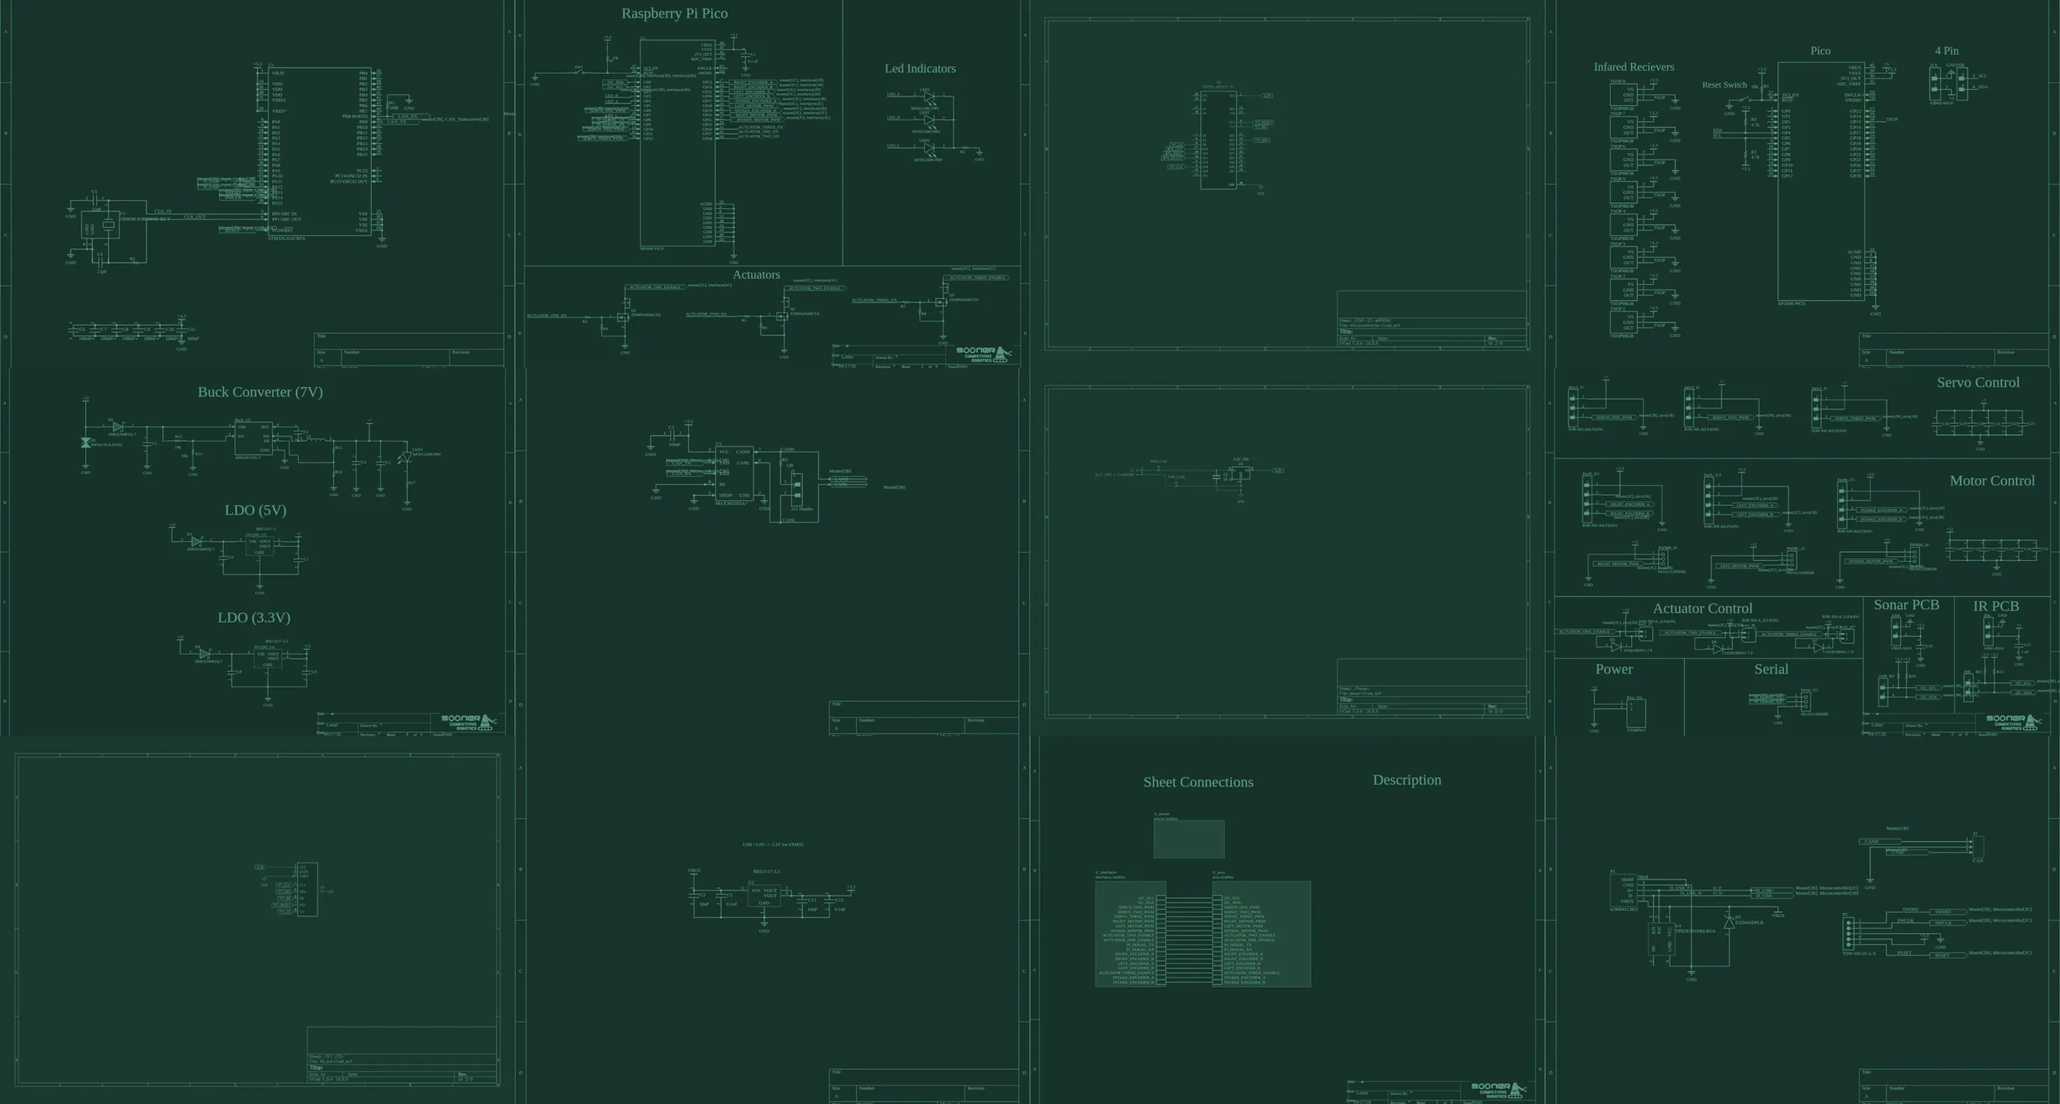
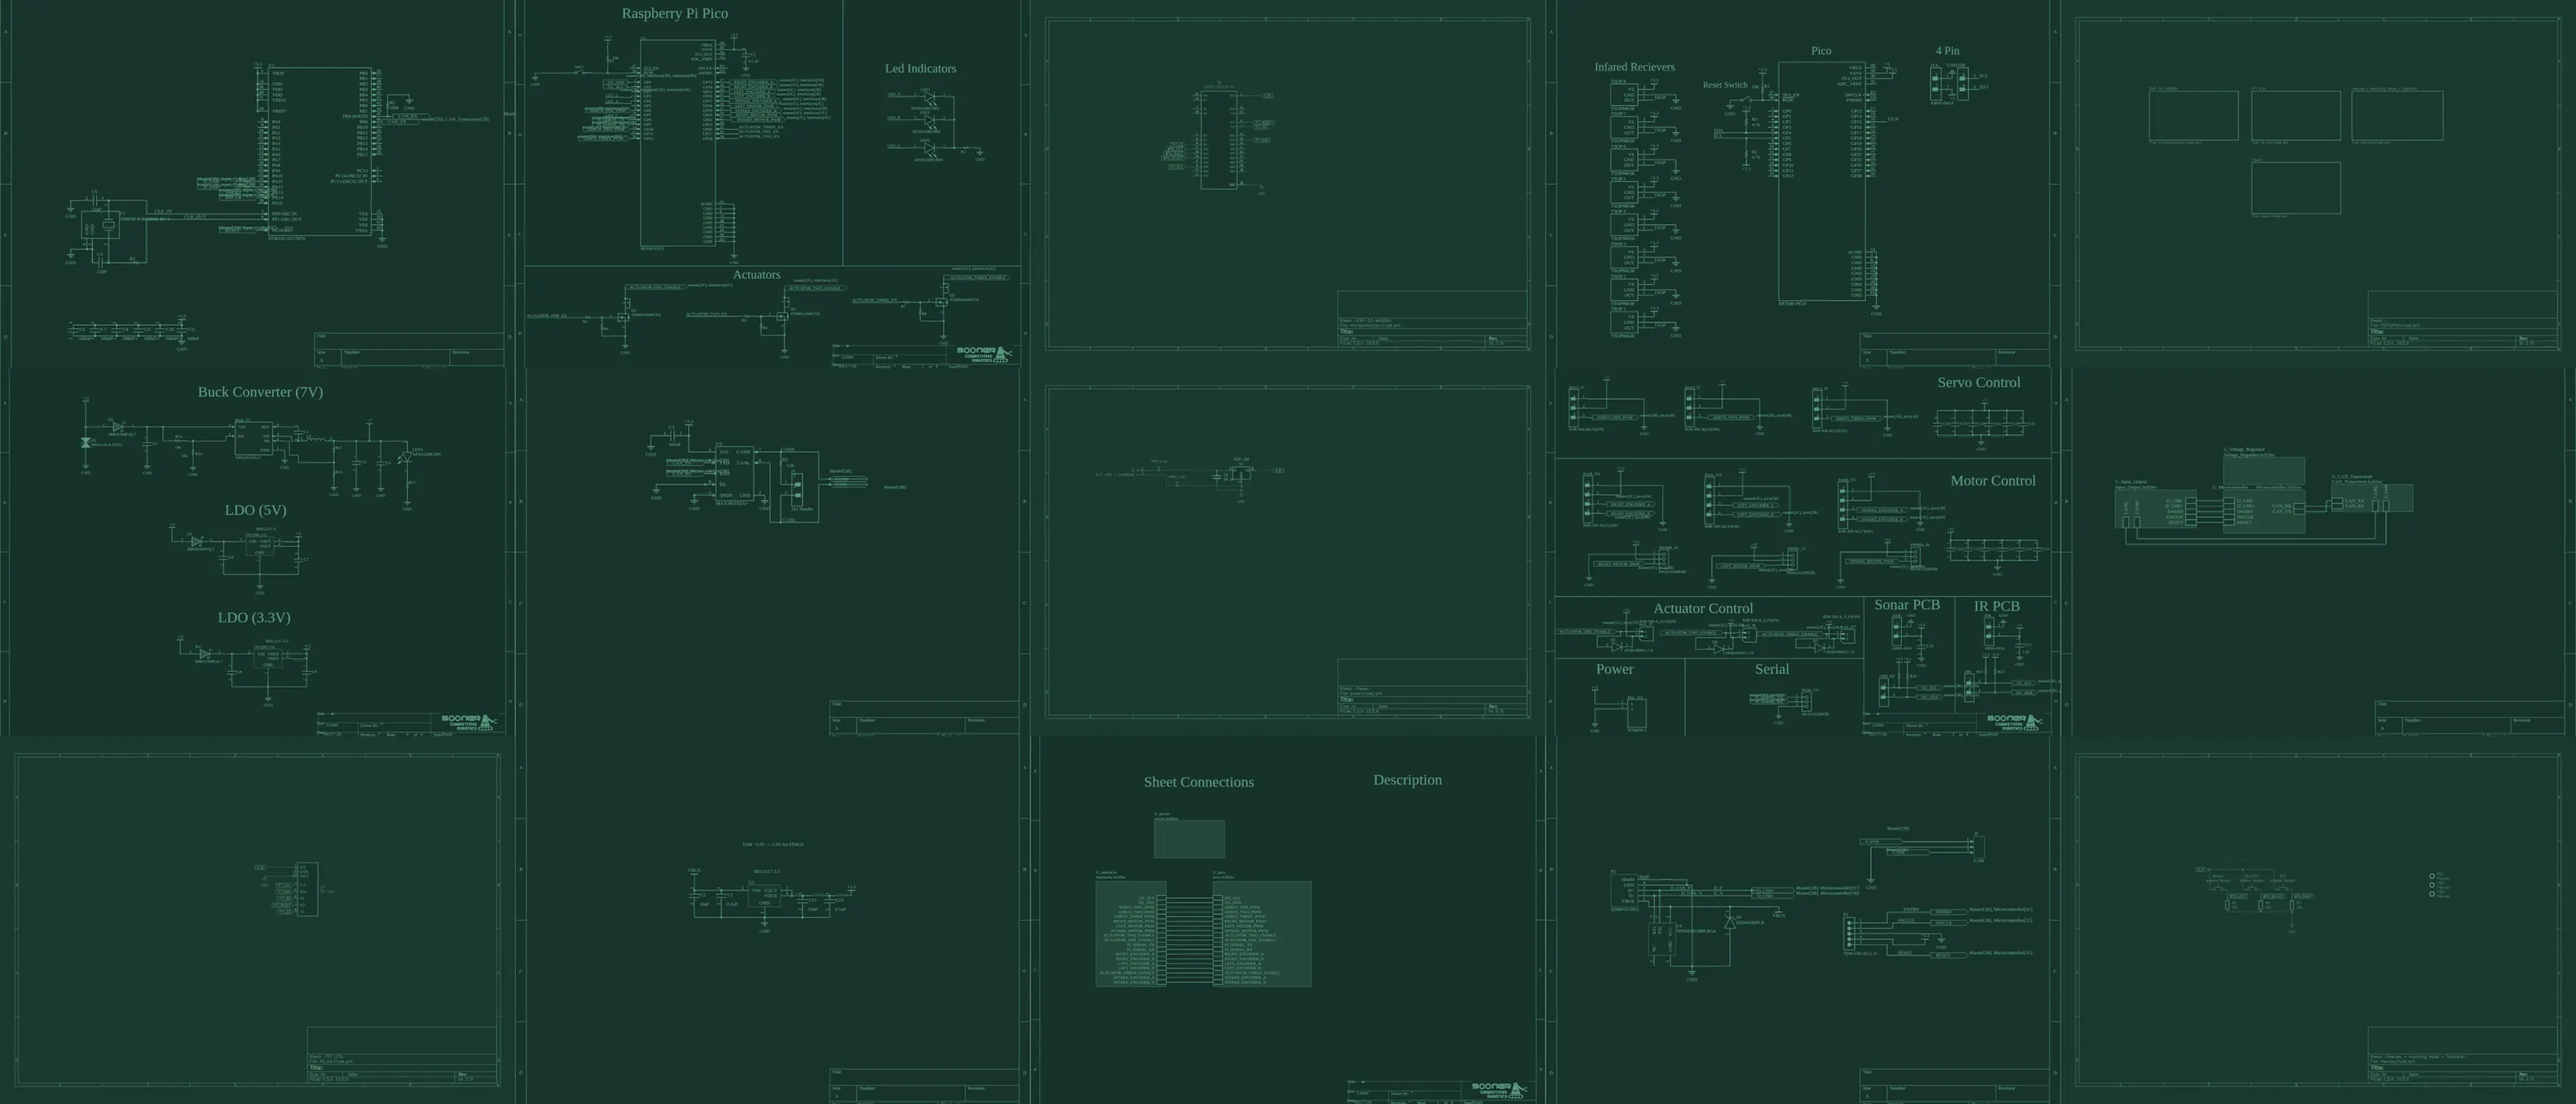
Résumé background: one fixed canvas of all 15 schematic sheets
Replaces the repeating tile. The canvas is pinned behind the page and sized
to cover the viewport, so sheets never repeat and more fit on screen.

diff --git a/resume/resume.css b/resume/resume.css
@@ -29,17 +29,24 @@
   padding: 0;
 }
 
-/* The sheet sits on my schematics: twelve sheets from OpenCAN, STORM,
-   the IR receiver, and ESP32Pet, recolored as lines on solder-mask green
-   and laid edge to edge so the whole area is covered. */
+/* The sheet sits on my schematics: all fifteen sheets from OpenCAN, STORM,
+   the IR receiver, and ESP32Pet in one canvas, pinned behind the page so the
+   résumé scrolls over it. One canvas, never tiled, so nothing repeats. */
 body {
-  background: var(--board) url("schematics.webp") repeat;
-  background-size: 2800px 1500px;
+  background: var(--board);
   color: var(--ink);
   font-family: var(--cm);
   font-size: 15px;
   line-height: 1.38;
   -webkit-font-smoothing: antialiased;
+}
+
+body::before {
+  content: "";
+  position: fixed;
+  inset: 0;
+  z-index: -1;
+  background: url("schematics.webp") center / cover no-repeat;
 }
 
 .desk {
